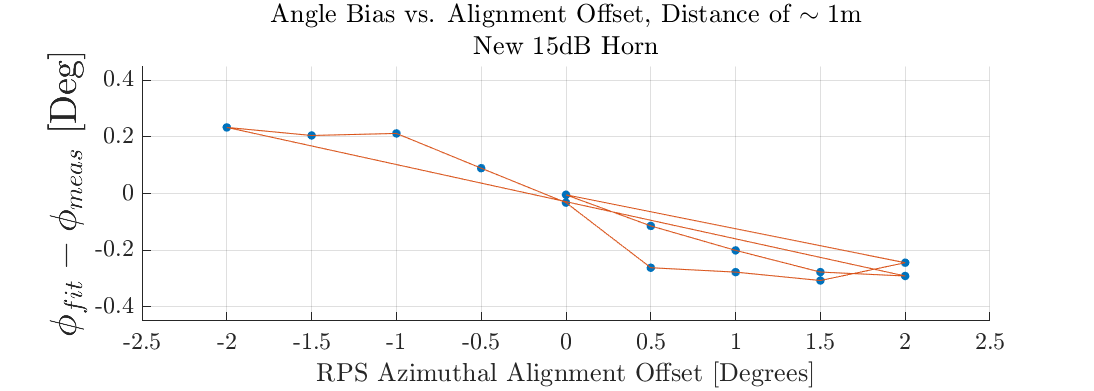
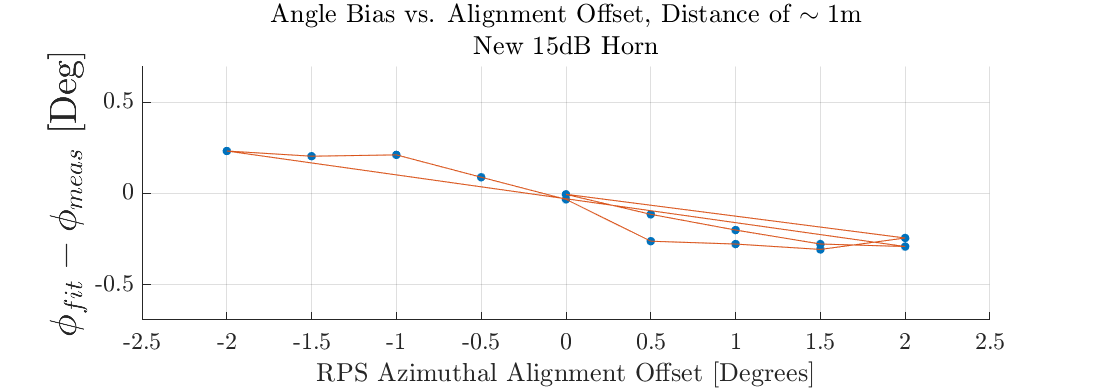
Added yet another plot with the 15dB horn

diff --git a/2023mmdd_isaac_data/index.html b/2023mmdd_isaac_data/index.html
@@ -122,6 +122,9 @@ With the LNA removed from the ISAAC, I conducted some more measurements, rotatin
     <li>
         <b>Flipped ISAAC Horn:</b> Annie and I opened the ISAAC and flipped the RF chain (Horn+Diode) by 180&deg; and took more RPS-alignment measurements at ~1m. Flipping between clicks 3 and 6, the pattern flips pretty cleanly around X=0&deg; which I think is strong evidence that the pattern is following the horn's orientation. This is definitely good motivation to try swapping out the horn on the ISAAC.
     </li>
+    <li>
+
+    </li>
 </ol>
 
     <figure>
@@ -132,7 +135,7 @@ With the LNA removed from the ISAAC, I conducted some more measurements, rotatin
         <script type="text/javascript">
             pager.link("#dpvsalignpager",
                 {
-                    'Meas. Set|case' : ['1: Dist ~0.5m|','2: Const. Amp|_const_amp','3: Dist ~1m|_new_dist','4: Isaac Moved|_isaac_move','5: Eccosorb|_eccosorb','6: Flipped ISAAC Horn|_horn_flipped','7: 15dB Horn|_new_horn'],
+                    'Meas. Set|case' : ['1: Dist ~0.5m|','2: Const. Amp|_const_amp','3: Dist ~1m|_new_dist','4: Isaac Moved|_isaac_move','5: Eccosorb|_eccosorb','6: Flipped ISAAC Horn|_horn_flipped','7: 15dB Horn|_new_horn','8: Flipped 15dB Horn|_new_horn_flipped'],
                 },
                 function(params) {
 

diff --git a/2023mmdd_isaac_data/scripts/isaac_tests.m b/2023mmdd_isaac_data/scripts/isaac_tests.m
@@ -206,7 +206,7 @@ prefix = {...
     'isaac_cal_jig_july23_with_homing_horn_flipped_m1p5deg_1';...
     'isaac_cal_jig_july23_with_homing_horn_flipped_m1deg_1';...
     'isaac_cal_jig_july23_with_homing_horn_flipped_m0p5deg_1';...
-    'isaac_cal_jig_july23_with_homing_horn_flipped_0deg_1';...
+    'isaac_cal_jig_july23_with_homing_horn_flipped_0deg_2';...
     'isaac_cal_jig_july23_with_homing_small_horn_0deg_1';...
     'isaac_cal_jig_july23_with_homing_small_horn_0p5deg_1';...
     'isaac_cal_jig_july23_with_homing_small_horn_1deg_1';...
@@ -222,6 +222,21 @@ prefix = {...
     'isaac_cal_jig_july23_with_homing_small_horn_1p5deg_2';...
     'isaac_cal_jig_july23_with_homing_small_horn_2deg_2';...
     'isaac_cal_jig_july23_with_homing_small_horn_0deg_3';...
+    'isaac_cal_jig_july23_with_homing_small_flipped_0deg_1';...
+    'isaac_cal_jig_july23_with_homing_small_flipped_0p5deg_1';...
+    'isaac_cal_jig_july23_with_homing_small_flipped_1deg_1';...
+    'isaac_cal_jig_july23_with_homing_small_flipped_1p5deg_1';...
+    'isaac_cal_jig_july23_with_homing_small_flipped_2deg_1';...
+    'isaac_cal_jig_july23_with_homing_small_flipped_m2deg_1';...
+    'isaac_cal_jig_july23_with_homing_small_flipped_m1p5deg_1';...
+    'isaac_cal_jig_july23_with_homing_small_flipped_m1deg_1';...
+    'isaac_cal_jig_july23_with_homing_small_flipped_m0p5deg_1';...
+    'isaac_cal_jig_july23_with_homing_small_flipped_0deg_2';...
+    'isaac_cal_jig_july23_with_homing_small_flipped_0p5deg_2';...
+    'isaac_cal_jig_july23_with_homing_small_flipped_1deg_2';...
+    'isaac_cal_jig_july23_with_homing_small_flipped_1p5deg_2';...
+    'isaac_cal_jig_july23_with_homing_small_flipped_2deg_2';...
+    'isaac_cal_jig_july23_with_homing_small_flipped_0deg_3';...
     };
 
 labs = {...;
@@ -347,6 +362,21 @@ labs = {...;
     'On Jig, Homing, Dist = 43", 15dB Horn, RPS align +1.5deg';... 120
     'On Jig, Homing, Dist = 43", 15dB Horn, RPS align +2.0deg';... 121
     'On Jig, Homing, Dist = 43", 15dB Horn, RPS align +0.0deg';... 122
+    'On Jig, Homing, Dist = 43", 15dB Horn Flipped, RPS align +0.0deg';... 123
+    'On Jig, Homing, Dist = 43", 15dB Horn Flipped, RPS align +0.0deg';... 124
+    'On Jig, Homing, Dist = 43", 15dB Horn Flipped, RPS align +0.0deg';... 125
+    'On Jig, Homing, Dist = 43", 15dB Horn Flipped, RPS align +0.0deg';... 126
+    'On Jig, Homing, Dist = 43", 15dB Horn Flipped, RPS align +0.0deg';... 127
+    'On Jig, Homing, Dist = 43", 15dB Horn Flipped, RPS align +0.0deg';... 128
+    'On Jig, Homing, Dist = 43", 15dB Horn Flipped, RPS align +0.0deg';... 129
+    'On Jig, Homing, Dist = 43", 15dB Horn Flipped, RPS align +0.0deg';... 130
+    'On Jig, Homing, Dist = 43", 15dB Horn Flipped, RPS align +0.0deg';... 131
+    'On Jig, Homing, Dist = 43", 15dB Horn Flipped, RPS align +0.0deg';... 132
+    'On Jig, Homing, Dist = 43", 15dB Horn Flipped, RPS align +0.0deg';... 133
+    'On Jig, Homing, Dist = 43", 15dB Horn Flipped, RPS align +0.0deg';... 134
+    'On Jig, Homing, Dist = 43", 15dB Horn Flipped, RPS align +0.0deg';... 135
+    'On Jig, Homing, Dist = 43", 15dB Horn Flipped, RPS align +0.0deg';... 136
+    'On Jig, Homing, Dist = 43", 15dB Horn Flipped, RPS align +0.0deg';... 137
     };
 if ~exist('meanguess','var')
     meanguess = 0;
@@ -374,7 +404,7 @@ obsnum = 1;
 dists = [ones(1,27), 20*0.0254, ones(1,3)*40*0.0254,ones(1,5)*20*0.0254,ones(1,7)*37*0.0254, ones(1,11)*26*0.0254];
 
 % Loop over the file names and fit.
-for prefind = 47:length(prefix)%[6 7 9:15, 20:42 44]%20:42
+for prefind = 108:length(prefix)%[6 7 9:15, 20:42 44]%20:42
 
     % Tilt Calibrations
     if ismember(prefind,[1:18])
@@ -1334,6 +1364,7 @@ fname = 'dp_vs_alignment_horn_flipped';
 saveas(fig,fullfile(figdir,fname),'png')
 
 %% Plot dPhi vs alignment offset -- New 15dB Horn
+lims = [-1 1]*0.7;
 clc
 offs = [0 0.5 1 1.5 2 -2 -1.5 -1 -0.5 0 0.5 1.0 1.5 2.0 0];
 schnums = [108:122];
@@ -1358,11 +1389,42 @@ end
 plot(offs_all,dp_all,'Color',cmlines(2,:))
 grid on
 xlim([-1 1]*2.5)
-ylim([-0.45 0.45])
+ylim(lims)
 ylabel('$\phi_{fit}-\phi_{meas}$ [Deg]','FontSize',18)
 xlabel('RPS Azimuthal Alignment Offset [Degrees]')
 title({'Angle Bias vs. Alignment Offset, Distance of $\sim1$m','New 15dB Horn'})
 fname = 'dp_vs_alignment_new_horn';
 saveas(fig,fullfile(figdir,fname),'png')
 
+%% Plot dPhi vs alignment offset -- New 15dB Horn
+clc
+offs = [0 0.5 1 1.5 2 -2 -1.5 -1 -0.5 0 0.5 1.0 1.5 2.0 0];
+schnums = [123:137];
+%cmlines = distinguishable_colors(length(schnums));
+cmlines = colormap('lines');
+fig = figure(173478);
+fig.Position(3:4) = [700 250];
+clf; hold on;
+
+[offs_all dp_all,dp_mn] = deal([]);
+for schind = 1:length(schnums)
+    idx = find(fd.schnum==schnums(schind));
+    O = repmat(offs(schind),1,length(idx));
+    dP = fd.phi(idx)-fd.phi_isaac(idx);
+    plot(O,dP,'.','Color',cmlines(1,:),'MarkerSize',14)
+    %plot(repmat(offs(schind),1,length(idx)),fd.tilt(idx),'x','Color',cmlines(schind,:),'MarkerSize',10)
+    %plot(repmat(offs(schind),1,length(idx)),fd.istilt(idx),'^','Color',cmlines(schind,:),'MarkerSize',10)
+    offs_all = [offs_all O];
+    dp_all = [dp_all dP];
+    dp_mn(schind) = nanmean(dP);
+end
+plot(offs_all,dp_all,'Color',cmlines(2,:))
+grid on
+xlim([-1 1]*2.5)
+ylim(lims)
+ylabel('$\phi_{fit}-\phi_{meas}$ [Deg]','FontSize',18)
+xlabel('RPS Azimuthal Alignment Offset [Degrees]')
+title({'Angle Bias vs. Alignment Offset, Distance of $\sim1$m','New 15dB Horn Flipped'})
+fname = 'dp_vs_alignment_new_horn_flipped';
+saveas(fig,fullfile(figdir,fname),'png')
 
